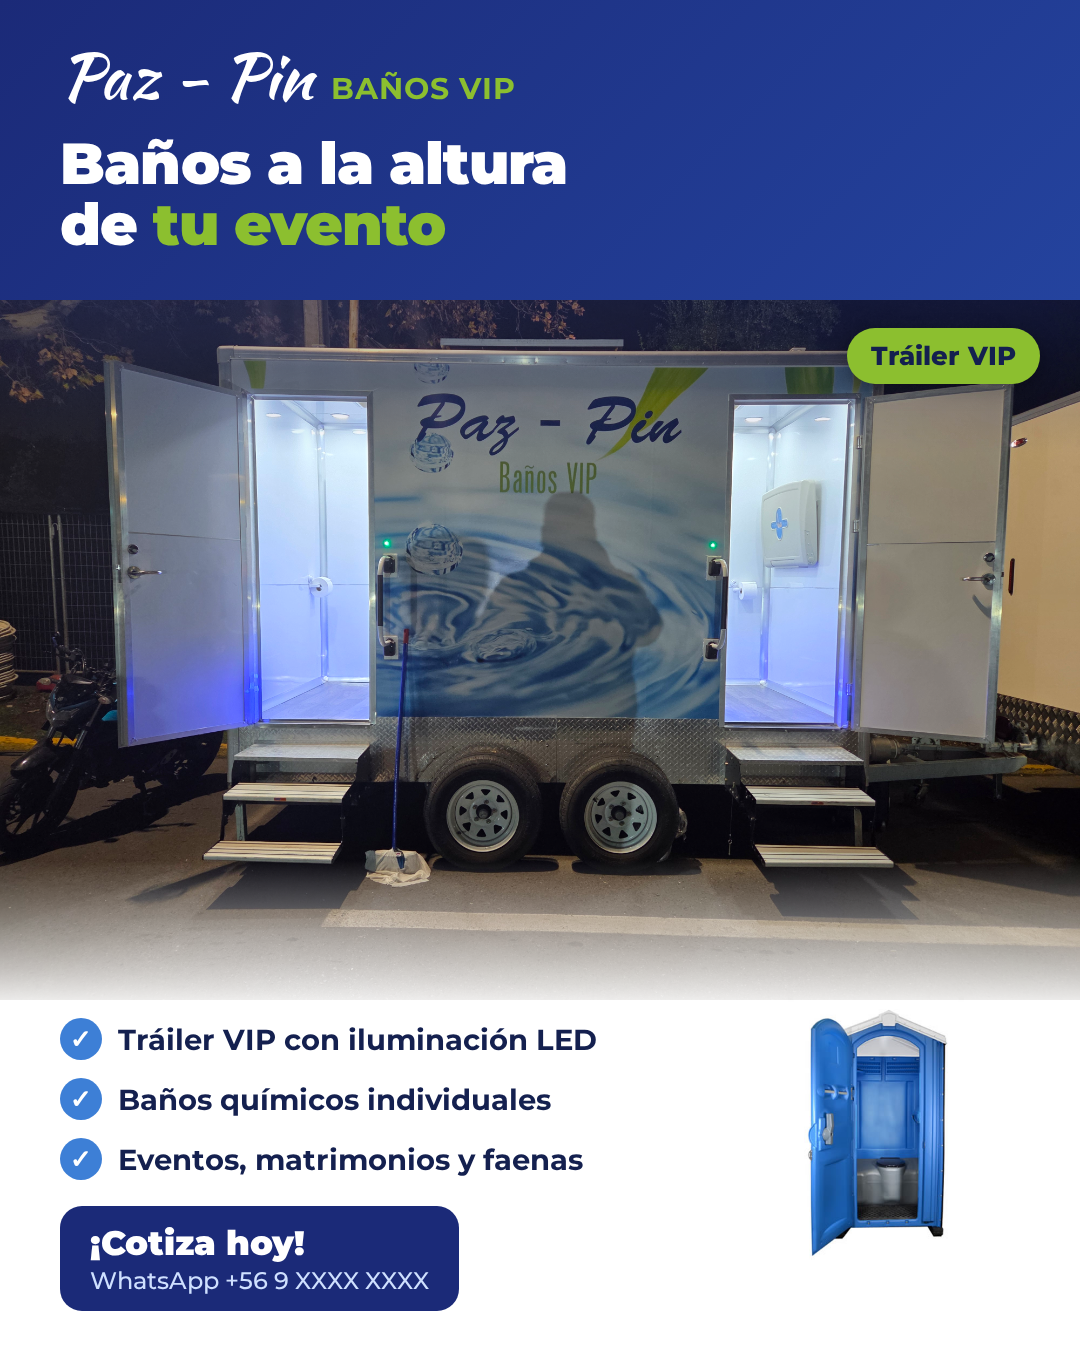
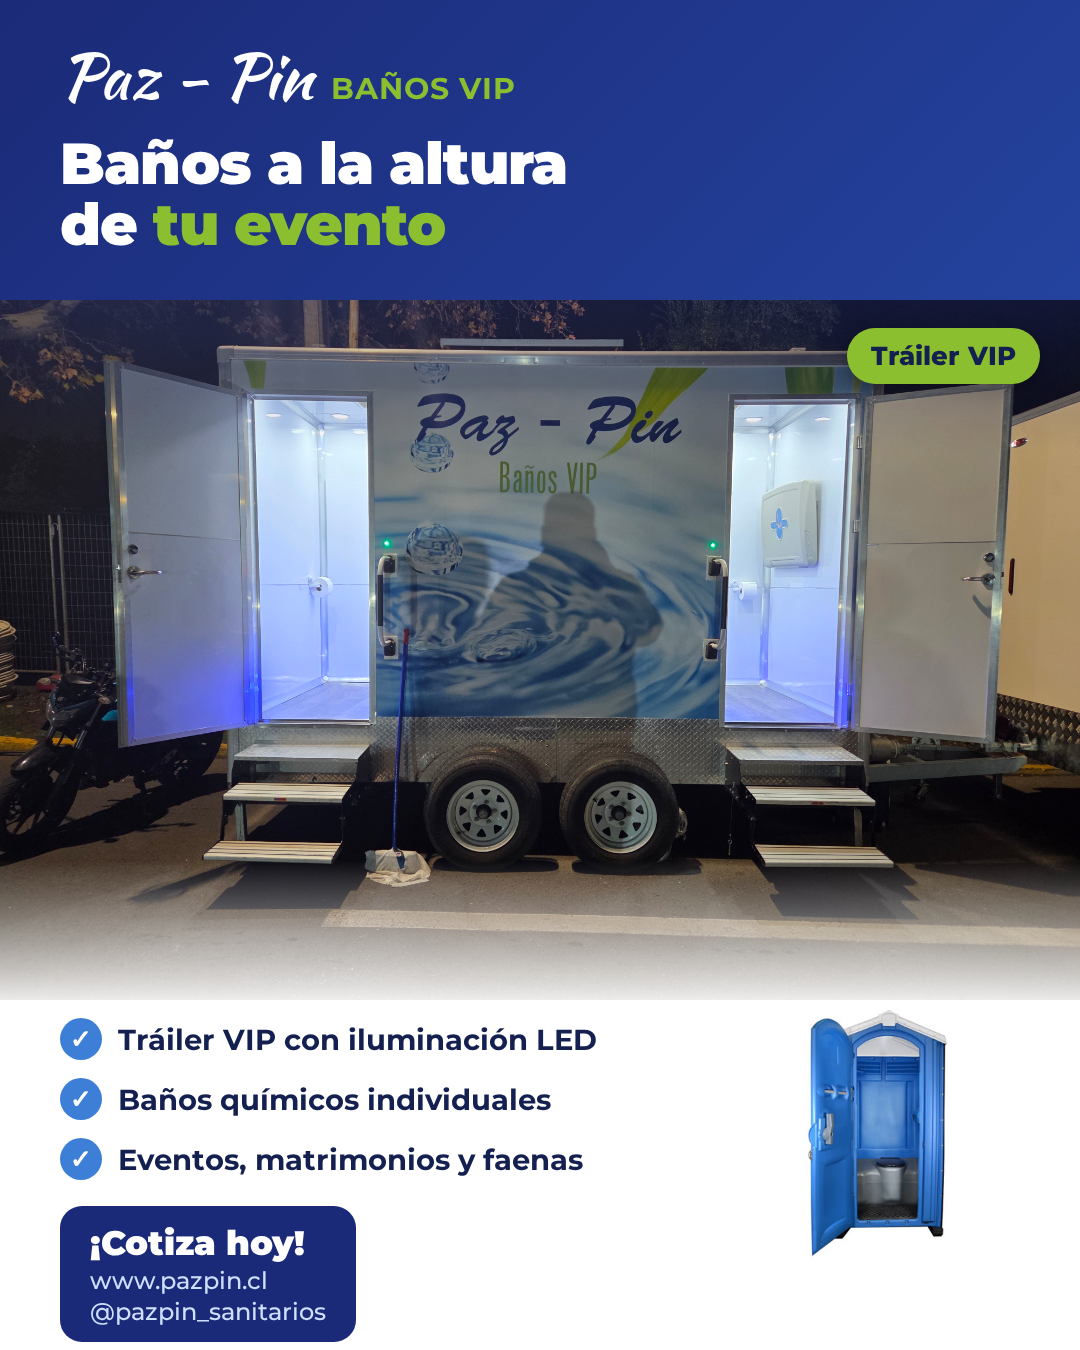
Agregar web e Instagram de Paz-Pin a la publicidad
Reemplaza el WhatsApp de relleno por www.pazpin.cl y @pazpin_sanitarios
en el post, la historia y el texto sugerido; corrige la tarjeta del baño
químico en la historia para que no tape los beneficios.

Claude-Session: https://claude.ai/code/session_01SeHKDtyF9RTatuRqh77ur9

Changed region(s): [[0.0306, 0.8711, 0.4278, 0.9956]]

diff --git a/instagram/historia-9x16.html b/instagram/historia-9x16.html
@@ -57,7 +57,7 @@
   }
   .cta b { font-size: 46px; font-weight: 900; }
   .cta small { font-size: 30px; font-weight: 500; color: #cfe0ff; margin-top: 2px; }
-  .cabin { position: absolute; right: 50px; top: -250px; width: 240px; height: 310px; border-radius: 24px; box-shadow: 0 10px 30px rgba(0,0,0,.35); background-color: #fff; background-origin: content-box; padding: 16px; background: url('assets/bano-quimico.jpg') center / contain no-repeat; }
+  .cabin { position: absolute; right: 50px; top: -340px; width: 240px; height: 310px; border-radius: 24px; box-shadow: 0 10px 30px rgba(0,0,0,.35); padding: 16px; background: url('assets/bano-quimico.jpg') center / contain no-repeat; background-color: #fff; background-origin: content-box; z-index: 5; }
 </style>
 </head>
 <body>
@@ -78,7 +78,8 @@
       </ul>
       <div class="cta">
         <b>¡Cotiza hoy!</b>
-        <small>WhatsApp +56 9 XXXX XXXX</small>
+        <small>www.pazpin.cl</small>
+        <small>@pazpin_sanitarios</small>
       </div>
     </div>
     <div class="cabin"></div>

diff --git a/instagram/post-4x5.html b/instagram/post-4x5.html
@@ -77,7 +77,8 @@
       </ul>
       <div class="cta">
         <b>¡Cotiza hoy!</b>
-        <small>WhatsApp +56 9 XXXX XXXX</small>
+        <small>www.pazpin.cl</small>
+        <small>@pazpin_sanitarios</small>
       </div>
     </div>
     <div class="cabin"></div>

diff --git a/instagram/README.md b/instagram/README.md
@@ -6,10 +6,10 @@
 | `historia-9x16.png` | 1080×1920 (9:16) | Historia |
 
 Las fuentes de diseño son `post-4x5.html` e `historia-9x16.html`, con las fotos y
-fuentes en `assets/`. Para cambiar un texto (por ejemplo el WhatsApp), edita el
+fuentes en `assets/`. Para cambiar un texto (por ejemplo los datos de contacto), edita el
 HTML y vuelve a generar el PNG con una captura de Chromium/Playwright a ese tamaño.
 
-> ⚠ Pendiente: reemplazar `+56 9 XXXX XXXX` por el número real de WhatsApp.
+Contacto: www.pazpin.cl · Instagram @pazpin_sanitarios
 
 ## Texto de la publicación (caption)
 
@@ -20,8 +20,8 @@ En **Paz-Pin Baños VIP** te arrendamos baños a la altura de tu celebración:
 ✅ Baños químicos individuales para cualquier tipo de evento
 ✅ Ideal para matrimonios, fiestas, eventos corporativos y faenas
 
-📲 Cotiza hoy por WhatsApp: +56 9 XXXX XXXX
-📩 O escríbenos por mensaje directo
+🌐 Cotiza hoy en www.pazpin.cl
+📩 O escríbenos por mensaje directo a @pazpin_sanitarios
 
 #BañosVIP #ArriendoDeBaños #BañosQuímicos #BañosParaEventos #Matrimonios
 #EventosChile #Matrimonio #Faenas #ProducciónDeEventos #PazPin
